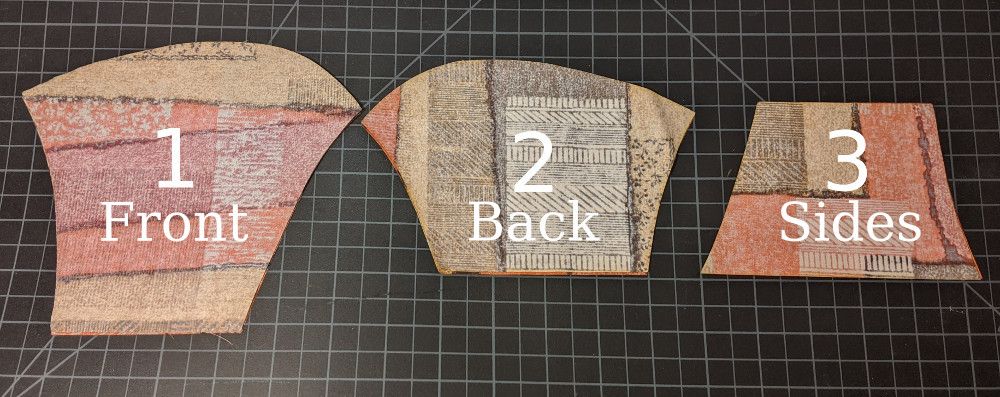
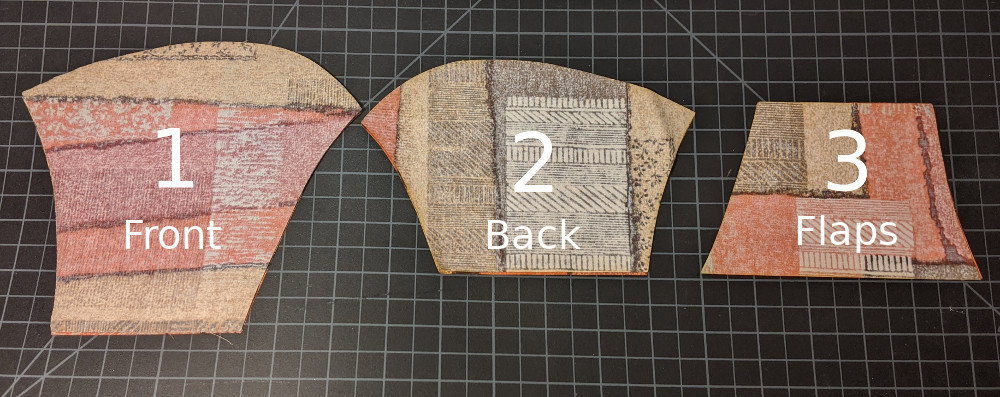
Olson instructions updated

Changed region(s): [[0.775, 0.4836, 0.93, 0.6348], [0.093, 0.4836, 0.248, 0.6348], [0.465, 0.4836, 0.62, 0.6348]]

diff --git a/alohamask.org/content/instructions/sewing/olson/index.md b/alohamask.org/content/instructions/sewing/olson/index.md
@@ -8,18 +8,20 @@ title: "Olson Mask Sewing Instructions"
 Before you start:
 
 - Make sure your sewing machine is setup with correct tension. 
-- If you are pinning the pieces together, pin them at the seam allowance otherwise you might ruin the mask.
 - Please sanitize any work surfaces before assembly of any mask kits.
 - Please wear a mask while assembling kits; you may use the first mask in your kit for this purpose.
 - Please let us know if any clarification is needed, if you are having trouble so is someone else. That means our instructions need work.
 - Please maintain social distancing of 6 feet or greater at all times.
-- Please return all assembled masks to the bag the materials came in.
+- Please return all assembled masks to the bag the materials came in. If you wore the first mask for kit assembly, keep it. **Don't return any mask you wore**.
 - After you have finished sewing all the masks in your kit, please contact the Volunteer Coordinator via either email or text message, who will then arrange for the kits to be picked up by a Delivery Volunteer.
 - Please coordinate with the Delivery Volunteer to leave the kits in a safe place for them after you have verified they are outside to pick it up; please keep the completed masks indoors until they arrive to pick it up.
 - Please wash your hands before and after handling any boxes or materials; all goods will be provided to you in initially sanitary bags,and want to do our best to keep things as close to sterile as possible in the sewing environments.
 - __If at ANY point you are feeling ill or sick, please cease work and contact the Volunteer Coordinator ASAP.__
-- Seam Allowance - 1/4 inch (6.4mm)
-- Stitch Length - 10-12 stitches per inch (~2.5mm)
+- Seam Allowance : 1/4 inch (6.4mm)
+- Stitch Length : 10-12 stitches per inch (~2.5mm)
+- Thread : all purpose any color
+
+
 
 There are three main pieces to the Olson mask. We will refer to them as shown in the picture below:
 
@@ -31,14 +33,14 @@ options="700x" >}}
 
 - Piece 1 makes up the front of the mask.
 - Piece 2 makes up the back of the mask and the filter pocket.
-- Phase 3 makes up the sides of the mask and the attachment points for the straps or ear loops.
+- Piece 3 makes up the flaps of the mask and the attachment points for the straps or ear loops.
 
 #### Step 1:
-Take two mirror front pieces (#1 above) and align them right sides together.
+Stitch outer curve of **Front** pieces, right sides together. 
 
 {{< figureCupper
 img="step2.jpg" 
-caption="Join two pieces #1"
+caption="Stitch outer curve."
 command="Resize" 
 options="700x" >}}
 
@@ -46,21 +48,21 @@ After sewing the two pieces together, it should look something like this:
 
 {{< figureCupper
 img="step3.jpg" 
-caption="End result of Step 1"
+caption="**Front** outer curve stitched."
 command="Resize" 
 options="700x" >}}
 
 #### Step 2:
-Repeat step 1, this time sewing together the front pieces. After completing steps 1 and 2, you should end up with two pieces that look like this:
+Stitch outer curve of the **Back** pieces.
 
 {{< figureCupper
 img="step4.jpg" 
-caption="End result of Step 2"
+caption="Outer curve stitched"
 command="Resize" 
 options="700x" >}}
 
 #### Step 3:
-Starting from the **Back** piece you made in Step 2. Fold the straight edges towards the wrong side and stitch them to prevent fraying:
+**Wrong** side up, fold over ~3/8 to 1/2 inch on the straight edges of the **Back**. Stitch along the folded edge.
 
 {{< figureCupper
 img="step5.jpg" 
@@ -77,7 +79,7 @@ command="Resize"
 options="700x" >}}
 
 #### Step 4:
-Now take the **Front** and **Back** pieces. Turn the **Front** piece right side out.  Turn the The **Front** and **Back** are nesting in each other, printed layers together. 
+With **Right** sides together, pin **Front** and **Back** matching the center seams and edges of the mask. Stitch along the top of the mask. Repeat by stitching along the bottom of the mask.
  
 {{< figureCupper
  img="step8.jpg" 
@@ -85,61 +87,27 @@ Now take the **Front** and **Back** pieces. Turn the **Front** piece right side 
  command="Resize" 
 options="700x" >}}
 
-Notice how the printed sides of the fabric are together.
-
-{{< figureCupper
- img="step8.5.jpg" 
- caption="Aligned Pieces."
- command="Resize" 
-options="700x" >}}
-
-Stitch along the top of the two pieces:
-
-{{< figureCupper
- img="step9.jpg" 
- caption="Stitch along the top."
- command="Resize" 
-options="700x" >}}
-
-You will end up with a piece that looks like this:
-
-{{< figureCupper
- img="step10.jpg" 
- caption="Result of Step 5."
- command="Resize" 
-options="700x" >}}
-
-#### Step 5:
-Stitch along the bottom of the piece you made in Step 4:
- 
-{{< figureCupper
- img="step11.jpg" 
- caption="Stitch along the bottom."
- command="Resize" 
-options="700x" >}}
-
 You will end up with a piece that looks like this:
 
 {{< figureCupper
  img="step12.jpg" 
- caption="Result of step 5."
+ caption="Right sides together, **Front** and **Back** matched at center seam, top and bottom of the mask stitched. ."
  command="Resize" 
 options="700x" >}}
 
-#### Step 6:
-Next we will attach the **Side** to the result of Step 5. Align the straight edges of the two pieces as shown below: 
+#### Step 5:
+Right sides together, match **Flap** to **Front**, align edges of the mask. There will be an overlap between **Back** and **Flaps**. 
    
 {{< figureCupper
  img="step13.jpg" 
- caption="Align pieces."
+ caption="One **Flap** aligned with edges. Other **Flap** not yet placed."
  command="Resize" 
 options="700x" >}}
 
-Stitch down the two pieces along the edges:
 
 {{< figureCupper
  img="step14.jpg" 
- caption="Result of step 5."
+ caption="Stitch along the top edge and bottom edge."
  command="Resize" 
 options="700x" >}}
 
@@ -147,7 +115,7 @@ Now do the same for the other side:
 
 {{< figureCupper
  img="step15.jpg" 
- caption="Align pieces."
+ caption="Second **Flap** aligned with the edge of the mask."
  command="Resize" 
 options="700x" >}}
 
@@ -155,31 +123,27 @@ Your mask will look like this:
 
 {{< figureCupper
  img="step17.jpg" 
- caption="Result of step 6.(Back)"
+ caption="**Top** and **Bottom** stitched. Back view."
  command="Resize" 
 options="700x" >}}
 
 {{< figureCupper
  img="step18.jpg" 
- caption="Result of step 6.(Front)"
+ caption="**Top** and **Bottom** stitched. Front view."
  command="Resize" 
 options="700x" >}}
 
-#### Step 7:
+#### Step 6:
 
-Kits will be delivered with ties or ear loops. There will be 40 ties with each kit, or an 80 inch strip of 1 inch knit stretchy material for making ear loops.
+**If your mask came with fabric rectangles refer to the instructions for attaching straps [here]({{< ref "/instructions/sewing/straps#example-attaching-straps-to-mask-olson-pattern" >}}) or as a [separate PDF](https://github.com/alohamask/design/raw/master/resources/olson_strap_installation.pdf).**
 
-**If your mask came with straps refer to the instructions for attaching straps [here]({{< ref "/instructions/sewing/straps#example-attaching-straps-to-mask-olson-pattern" >}}) or as a [separate PDF](https://github.com/alohamask/design/raw/master/resources/olson_strap_installation.pdf).**
-
-If your mask came with stretchy ear loops continue with these instructions. Cut two 4 inch pieces of knit ribbon:
+If your mask came with knit ear loops. continue with these instructions. Cut two 6 inch pieces of knit ribbon:
 
 {{< figureCupper
  img="step23.jpg" 
- caption="4 inch ear loops."
+ caption="6 inch ear loops."
  command="Resize" 
 options="700x" >}}
-
-
 
 ### Attaching the Ear loops:
 There are two different ways of attaching ear loops. Make sure you read both and choose the one you are most comfortable with:
@@ -234,19 +198,6 @@ You can pin the ear loops in place without compromising the mask, but you will f
  command="Resize" 
 options="700x" >}}
 
-### Alternative way of adding ear loops:
-
-Once you finish Step 6, before turning the mask inside out place the cut ribbon between the **Front** and **Side** pieces as shown below. Make sure the ribbon is folded 
-
-{{< figureCupper
- img="step28.jpg" 
- caption="Place the ear loops into the mask."
- command="Resize" 
-options="700x" >}}
-
-Stitch at the white dashed lines to close the edges of the mask. Be careful to catch ONLY the ends of the knit strip while you stitch the sides closed.  Back stitch several times at the knit strip ends to reinforce.
-After stitching the edges closed, turn the mask rightside out. Mask is done.
-
 #### You are done!
 Congratulations, you finished a mask! A first mask may take 30 minutes or so, but once you get comfortable with the pattern and these steps, you can cut that time down to 10-15 minutes. Here is a picture of what your mask should look like:
 
@@ -267,7 +218,7 @@ options="700x" >}}
 
 Only add a nose clamp if your kit came with them. Some hospitals will add it on site. Nose clamp directions are found here [here]({{< ref "/instructions/sewing/nose_bridge" >}})
 
-### Chain stitching:
+### Batch stitching:
 Once you are comfortable with the pattern, consider chain stitching the pieces together. This will make sewing mask much faster and save on thread. Check out these awesome directions one of our sewing volunteers put together:
 {{<youtube 9Mh6Zjiwzyw>}} 
 
